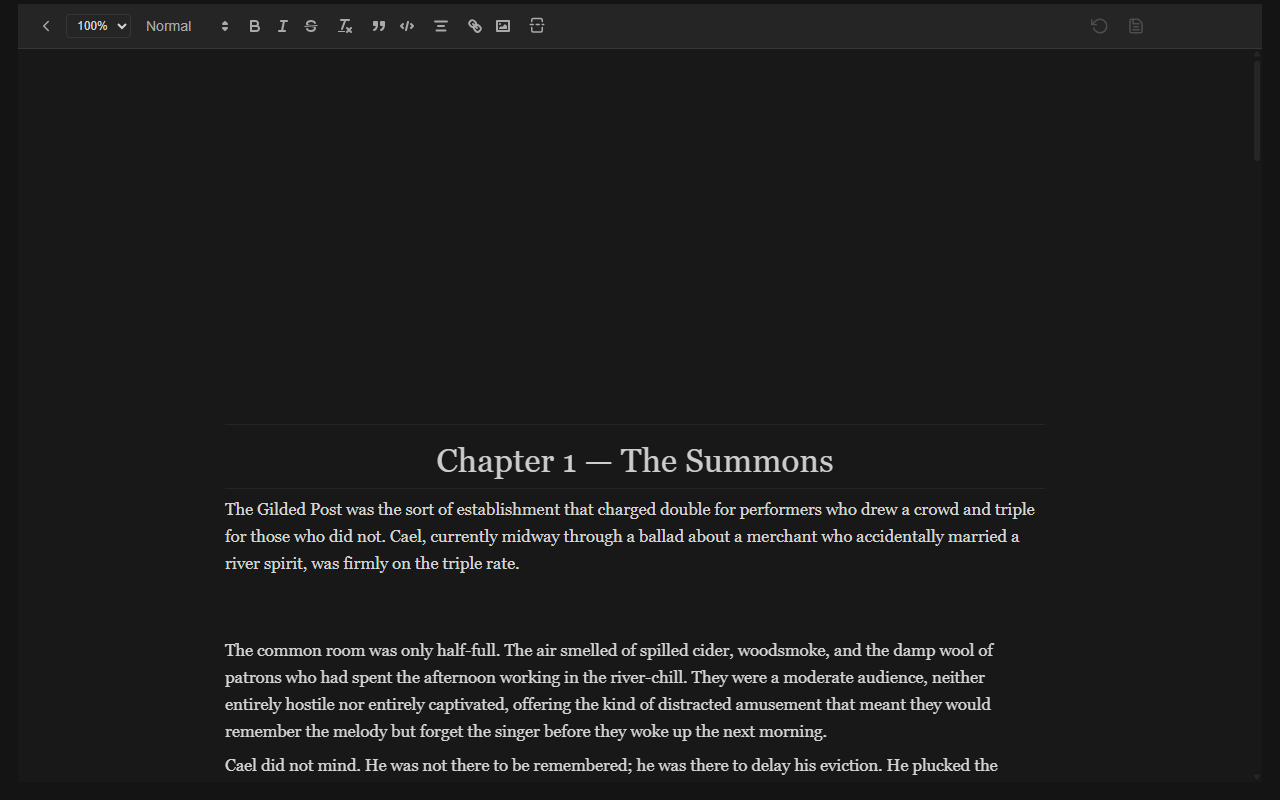
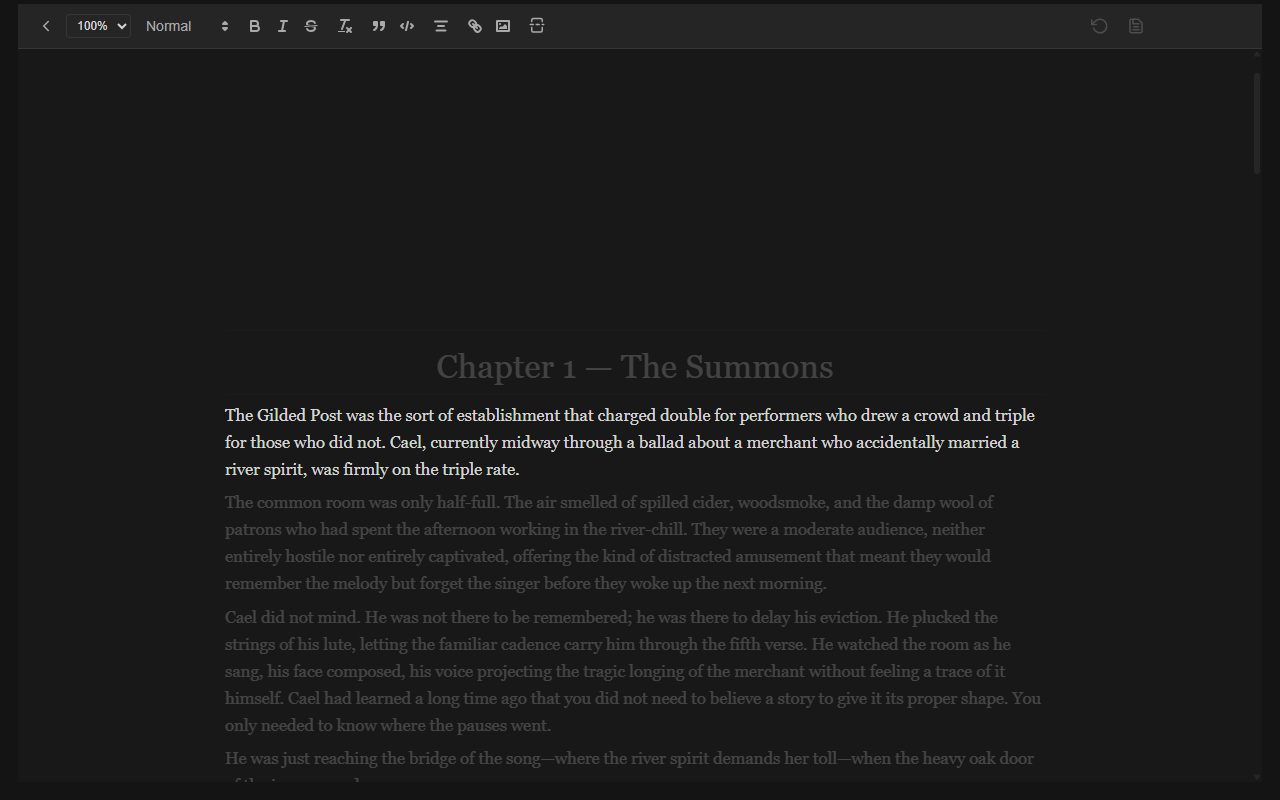
Move about section and fix focus mode

diff --git a/help/shared/help-nav.js b/help/shared/help-nav.js
@@ -5,12 +5,12 @@
 
     const links = [
       { id: 'getting-started', label: 'Getting Started', file: 'getting-started.html' },
-      { id: 'about', label: 'About', file: 'about.html' },
       { id: 'maps', label: 'Maps', file: 'maps.html' },
       { id: 'wiki-tags', label: 'Wiki Tags', file: 'wiki-tags.html' },
       { id: 'ai-import-export', label: 'AI Import/Export', file: 'ai-import-export.html' },
       { id: 'book-export', label: 'Book Export', file: 'book-export.html' },
-      { id: 'git-snapshots', label: 'Git Snapshots', file: 'git-snapshots.html' }
+      { id: 'git-snapshots', label: 'Git Snapshots', file: 'git-snapshots.html' },
+      { id: 'about', label: 'About', file: 'about.html' }
     ];
 
     const currentFile = window.location.pathname.split('/').pop() || 'getting-started.html';